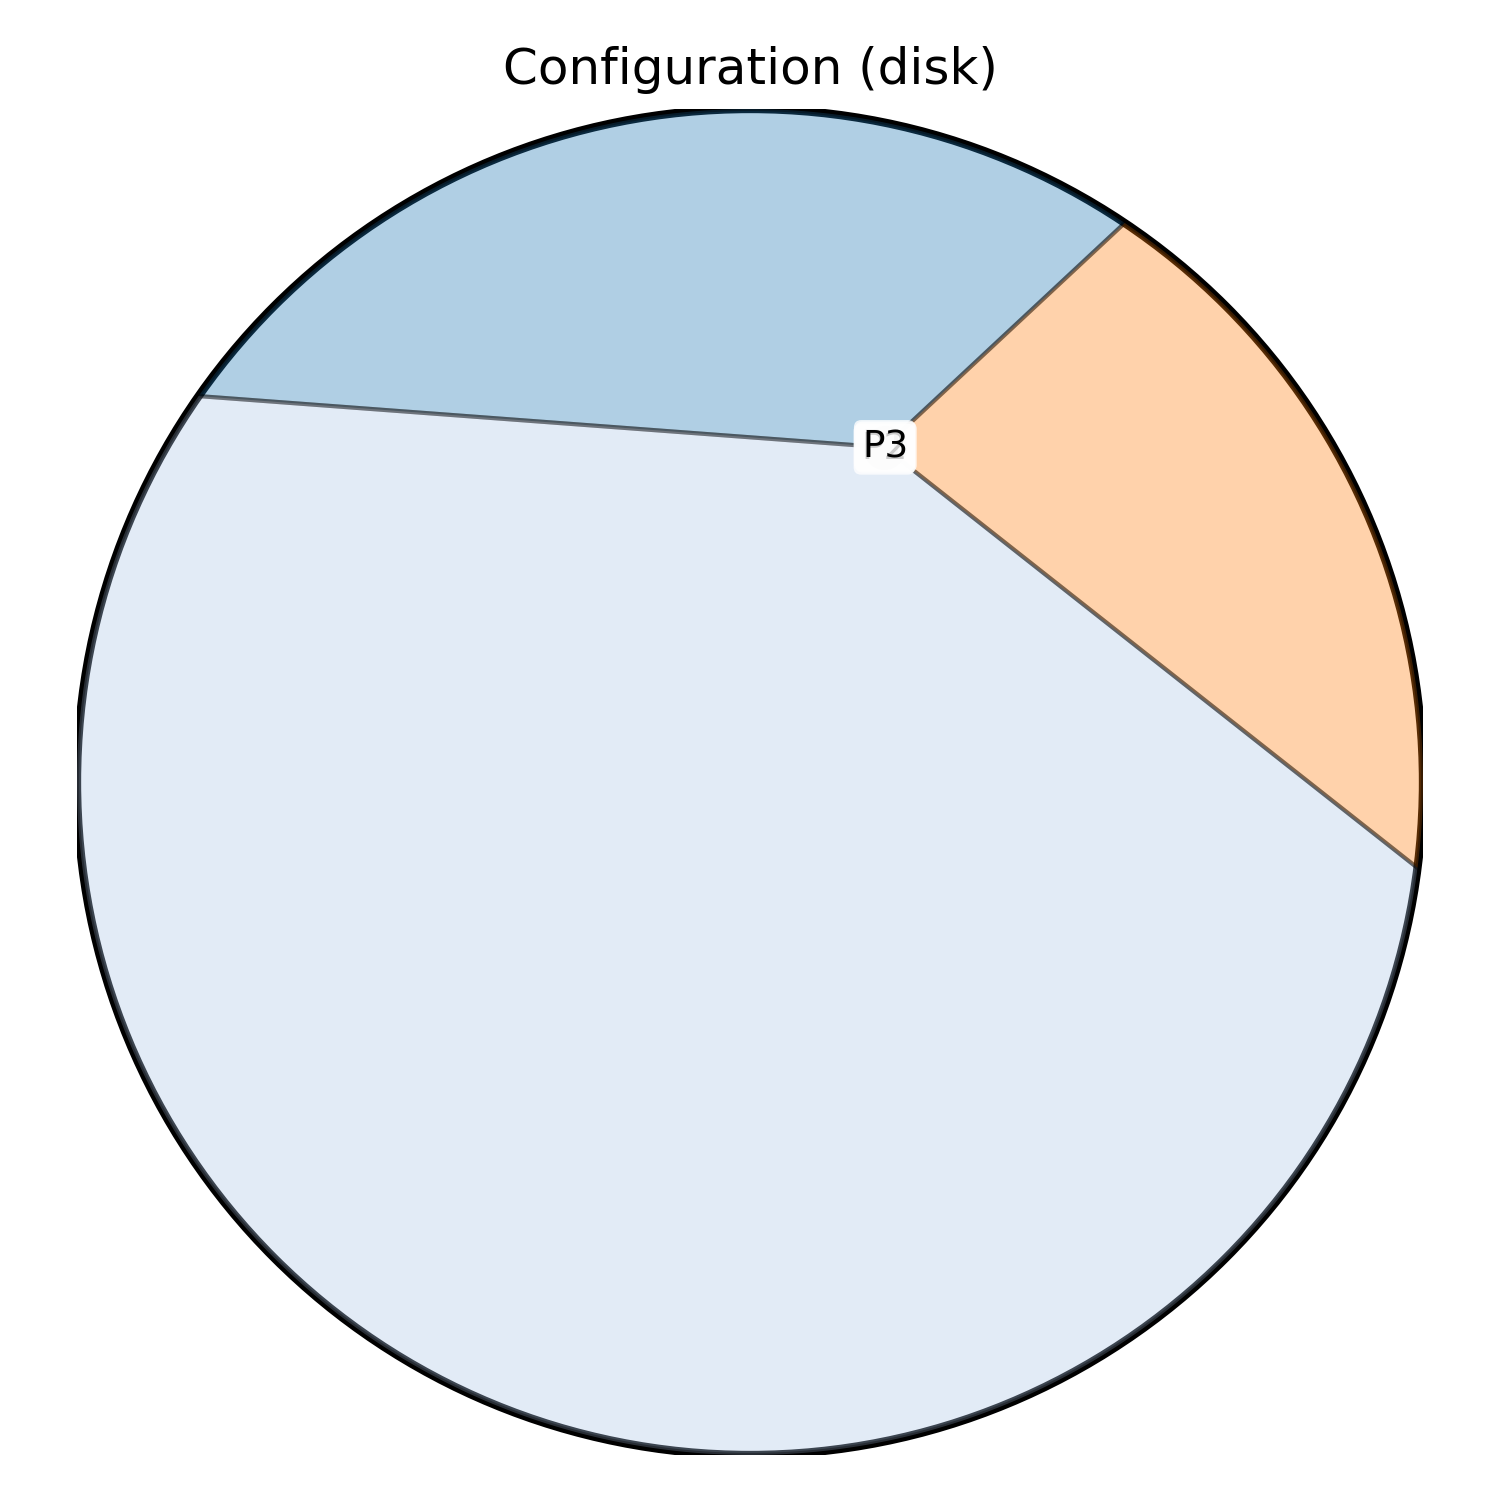
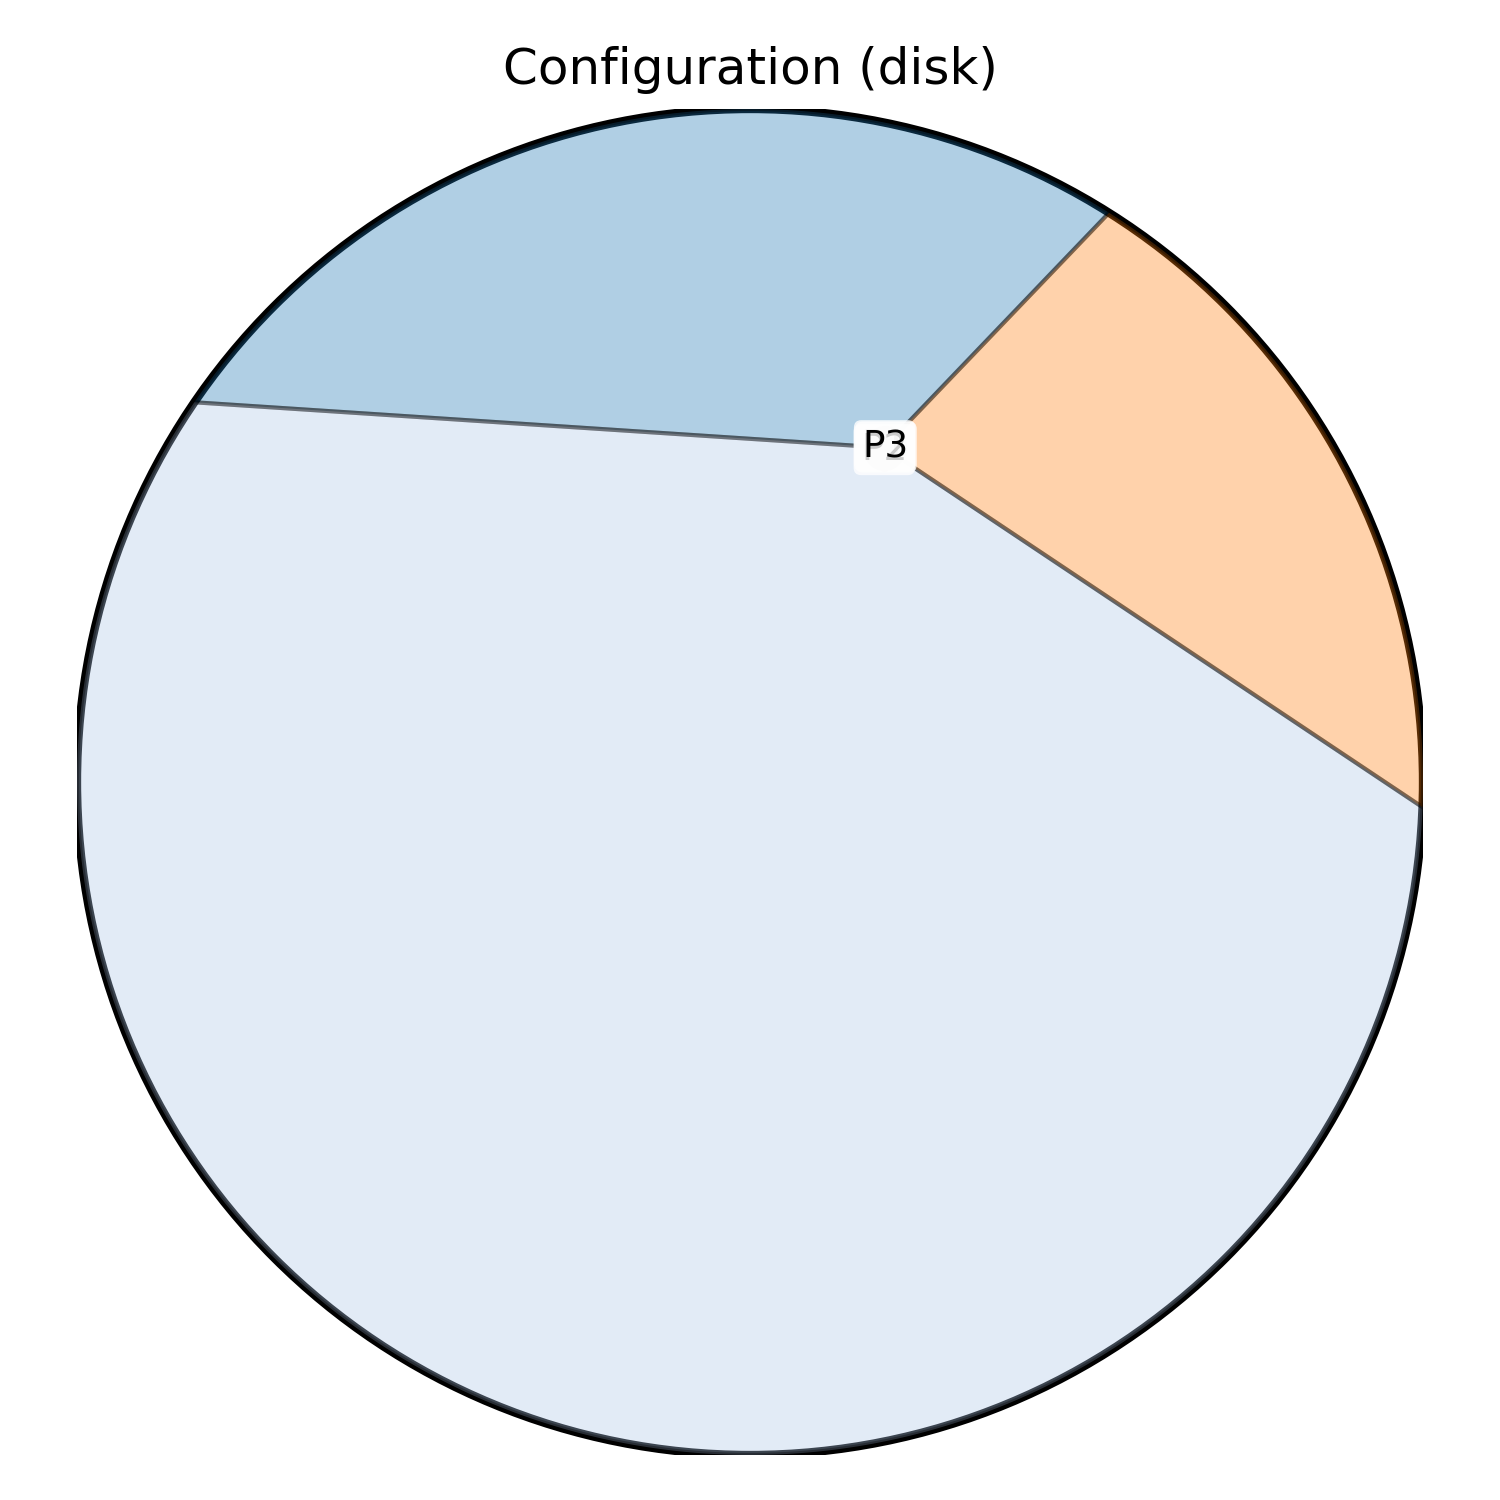
improved convergence criteria

diff --git a/project_code/sim/hotelling.py b/project_code/sim/hotelling.py
@@ -36,7 +36,7 @@ def compute_payoff(domain, positions, n_samples=1000):
     """
     positions = np.asarray(positions, dtype=float).reshape(len(positions), -1)
 
-    eps = 1e-12
+    eps = 1e-8
     positions += eps * np.random.randn(*positions.shape)  # add some noise to avoid singularities
 
     try:
@@ -107,6 +107,7 @@ def sim(domain=None, num_players=None, start_positions=None, tol=None, max_iter=
         old_positions = positions.copy()
         new_positions = positions.copy()
         repulsion_weight = 1e-3
+        previous_payoff = compute_payoff(domain, positions)
         for i in range(num_players):
             def objective_function(x):
                 # Compute the payoff for the player at position x
@@ -120,9 +121,19 @@ def sim(domain=None, num_players=None, start_positions=None, tol=None, max_iter=
 
             res = scipy.optimize.minimize(objective_function, old_positions[i], method='Nelder-Mead')
             new_positions[i] = domain.project(res.x)
-            print(f"Player {i + 1}: {new_positions[i]} -> {res.x} (Payoff: {-res.fun})")
 
         positions = new_positions
+        for i in range(num_players):
+            # Compute the payoff for the player at position x
+            candidate = domain.project(positions[i])
+            tmp = positions.copy()
+            tmp[i] = candidate
+            payoff = compute_payoff(domain, tmp)
+            # dmin = np.min([domain.distance(candidate, q) for j, q in enumerate(tmp) if j != i]) + 1e-12
+            # The objective is to maximize the payoff minus a repulsion term
+            print(f"Player {i+1}: Payoff: {payoff[i]}")
+
+        current_payoff = compute_payoff(domain, positions)
 
         if isinstance(domain, Circle):
             # ------------- coloured Voronoi on a disk ----------------
@@ -182,7 +193,8 @@ def sim(domain=None, num_players=None, start_positions=None, tol=None, max_iter=
             ax.set_title("Final configuration (sphere)")
 
         # Check for convergence
-        if np.linalg.norm(np.array(positions) - np.array(old_positions)) < tol:
+        if np.linalg.norm(np.array(positions) - np.array(old_positions)) < tol\
+                and np.linalg.norm(np.array(current_payoff) - np.array(previous_payoff)) < tol:
             print(f"Converged after {iteration} iterations.")
             break
 
